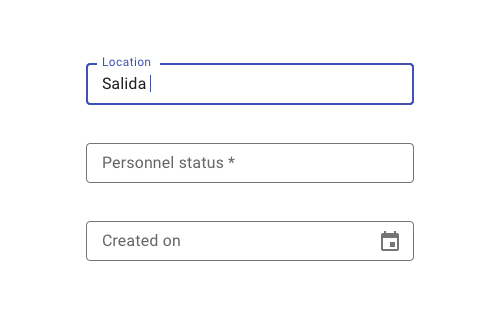
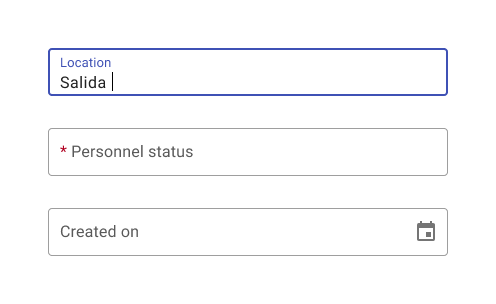
Feat: Updated images and text for Text Field

diff --git a/docs/components/fields/text-field/text-field.md b/docs/components/fields/text-field/text-field.md
@@ -20,7 +20,7 @@ Text fields allow users to enter text into a UI. They typically appear in [forms
 
 ## Parts 
 
-Text fields are comprised of three parts: 1. Label (required) 2. Input (required) 3. Helper text (optional) 4. Character counter (optional).
+Text fields are comprised of four parts: 1. Label (required) 2. Input (required) 3. Helper text (optional) 4. Character counter (optional).
 
 <ImageBlock maxWidth="650px">
 
@@ -97,7 +97,7 @@ The input allows a user to enter text or data. Use format masking for date, emai
 
   <DoDontImage>
 
-![Formatted address fields.](./images/text-area-2.png)
+![Formatted address fields.](./images/text-area-caption.png)
 
   </DoDontImage>
   <DoDontImage>
@@ -145,7 +145,7 @@ Where possible, use helper text below a field instead of placeholder text. Accor
   <DoDontRow>
   <DoDontImage>
 
-![Floating label with placeholder text.](./images/placeholder2.gif)
+![Floating label with placeholder text.](./images/placeholder-2.png)
 
   </DoDontImage>
   <DoDontImage>
@@ -155,7 +155,7 @@ Where possible, use helper text below a field instead of placeholder text. Accor
   </DoDontImage>
   <DoDontImage>
 
-![Placeholder text as a label.](./images/placeholder1.gif)
+![Placeholder text as a label.](./images/placeholder-1.png)
 
   </DoDontImage>
 
@@ -262,7 +262,7 @@ For text fields with a question-like label, display text above the input and use
 
 ## States 
 
-Text fields may have the following states: 1. Inactive 2. Focused 3. Activated 4. Hover 5. Error 6. Disabled.
+Text fields may have the following states: 1. Inactive, 2. Focused, 3. Activated, 4. Hover, 5. Error, 6. Disabled.
 
 <ImageBlock padded={false} max-width="600px">
 
